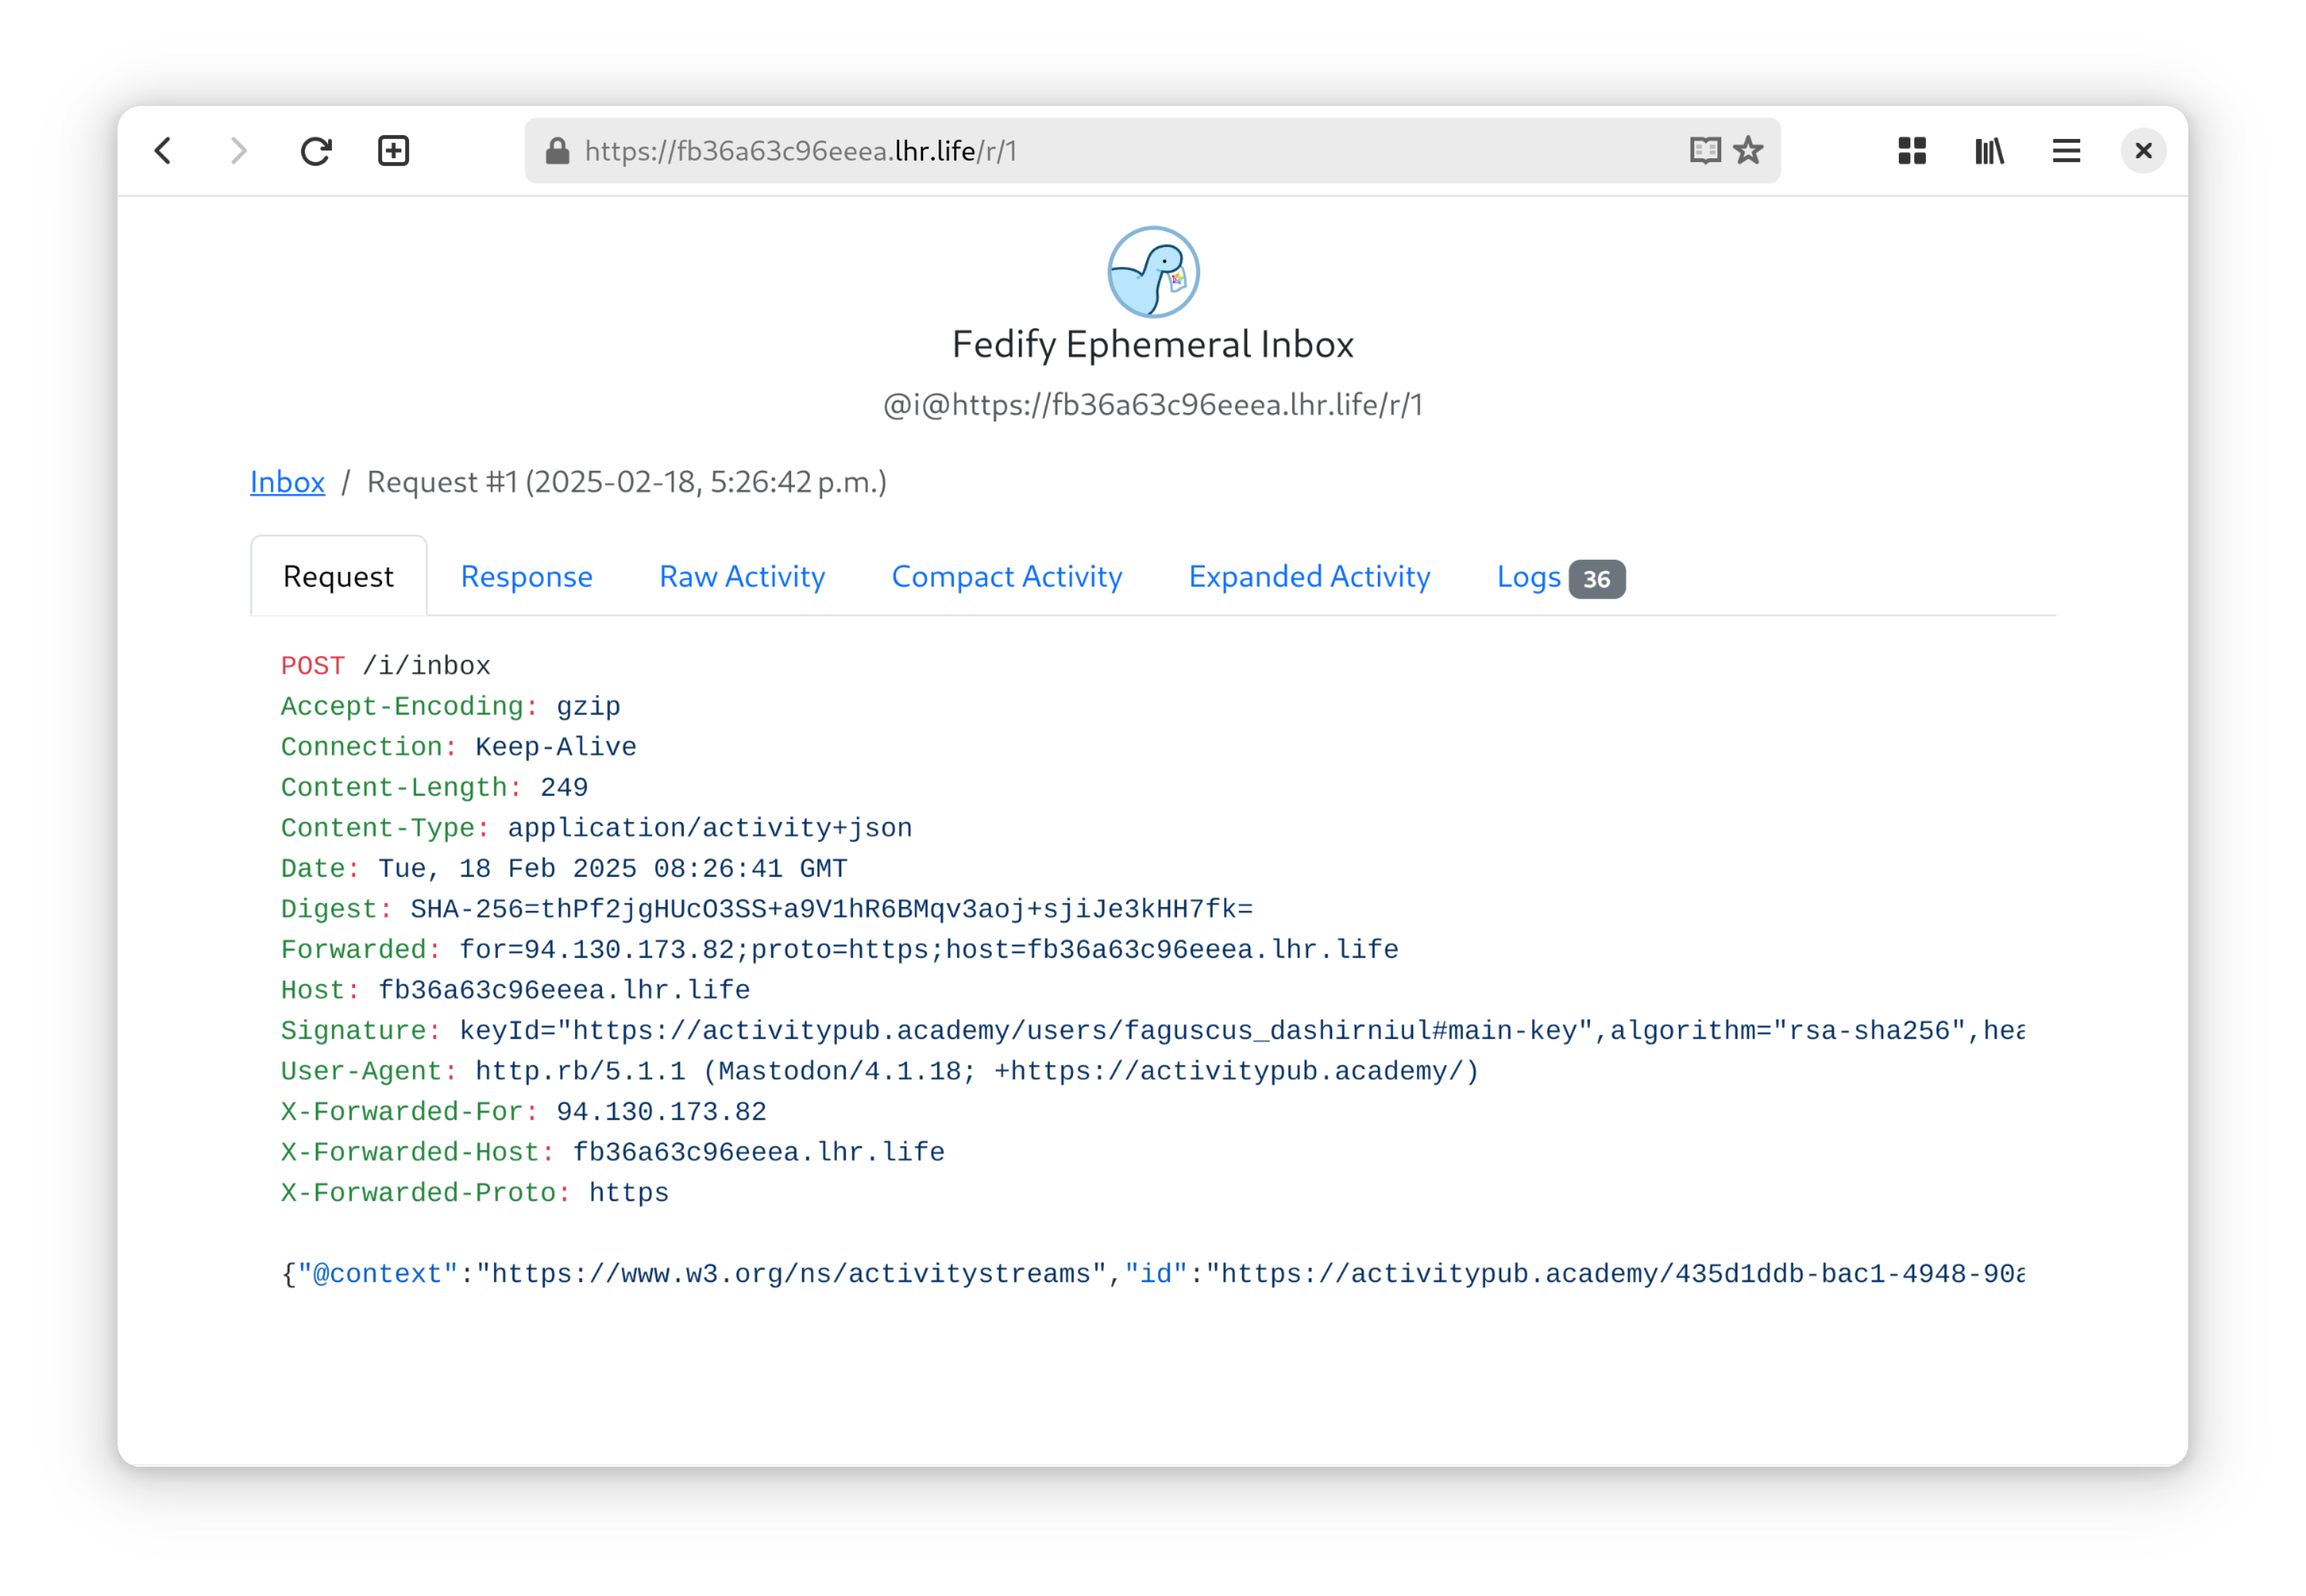
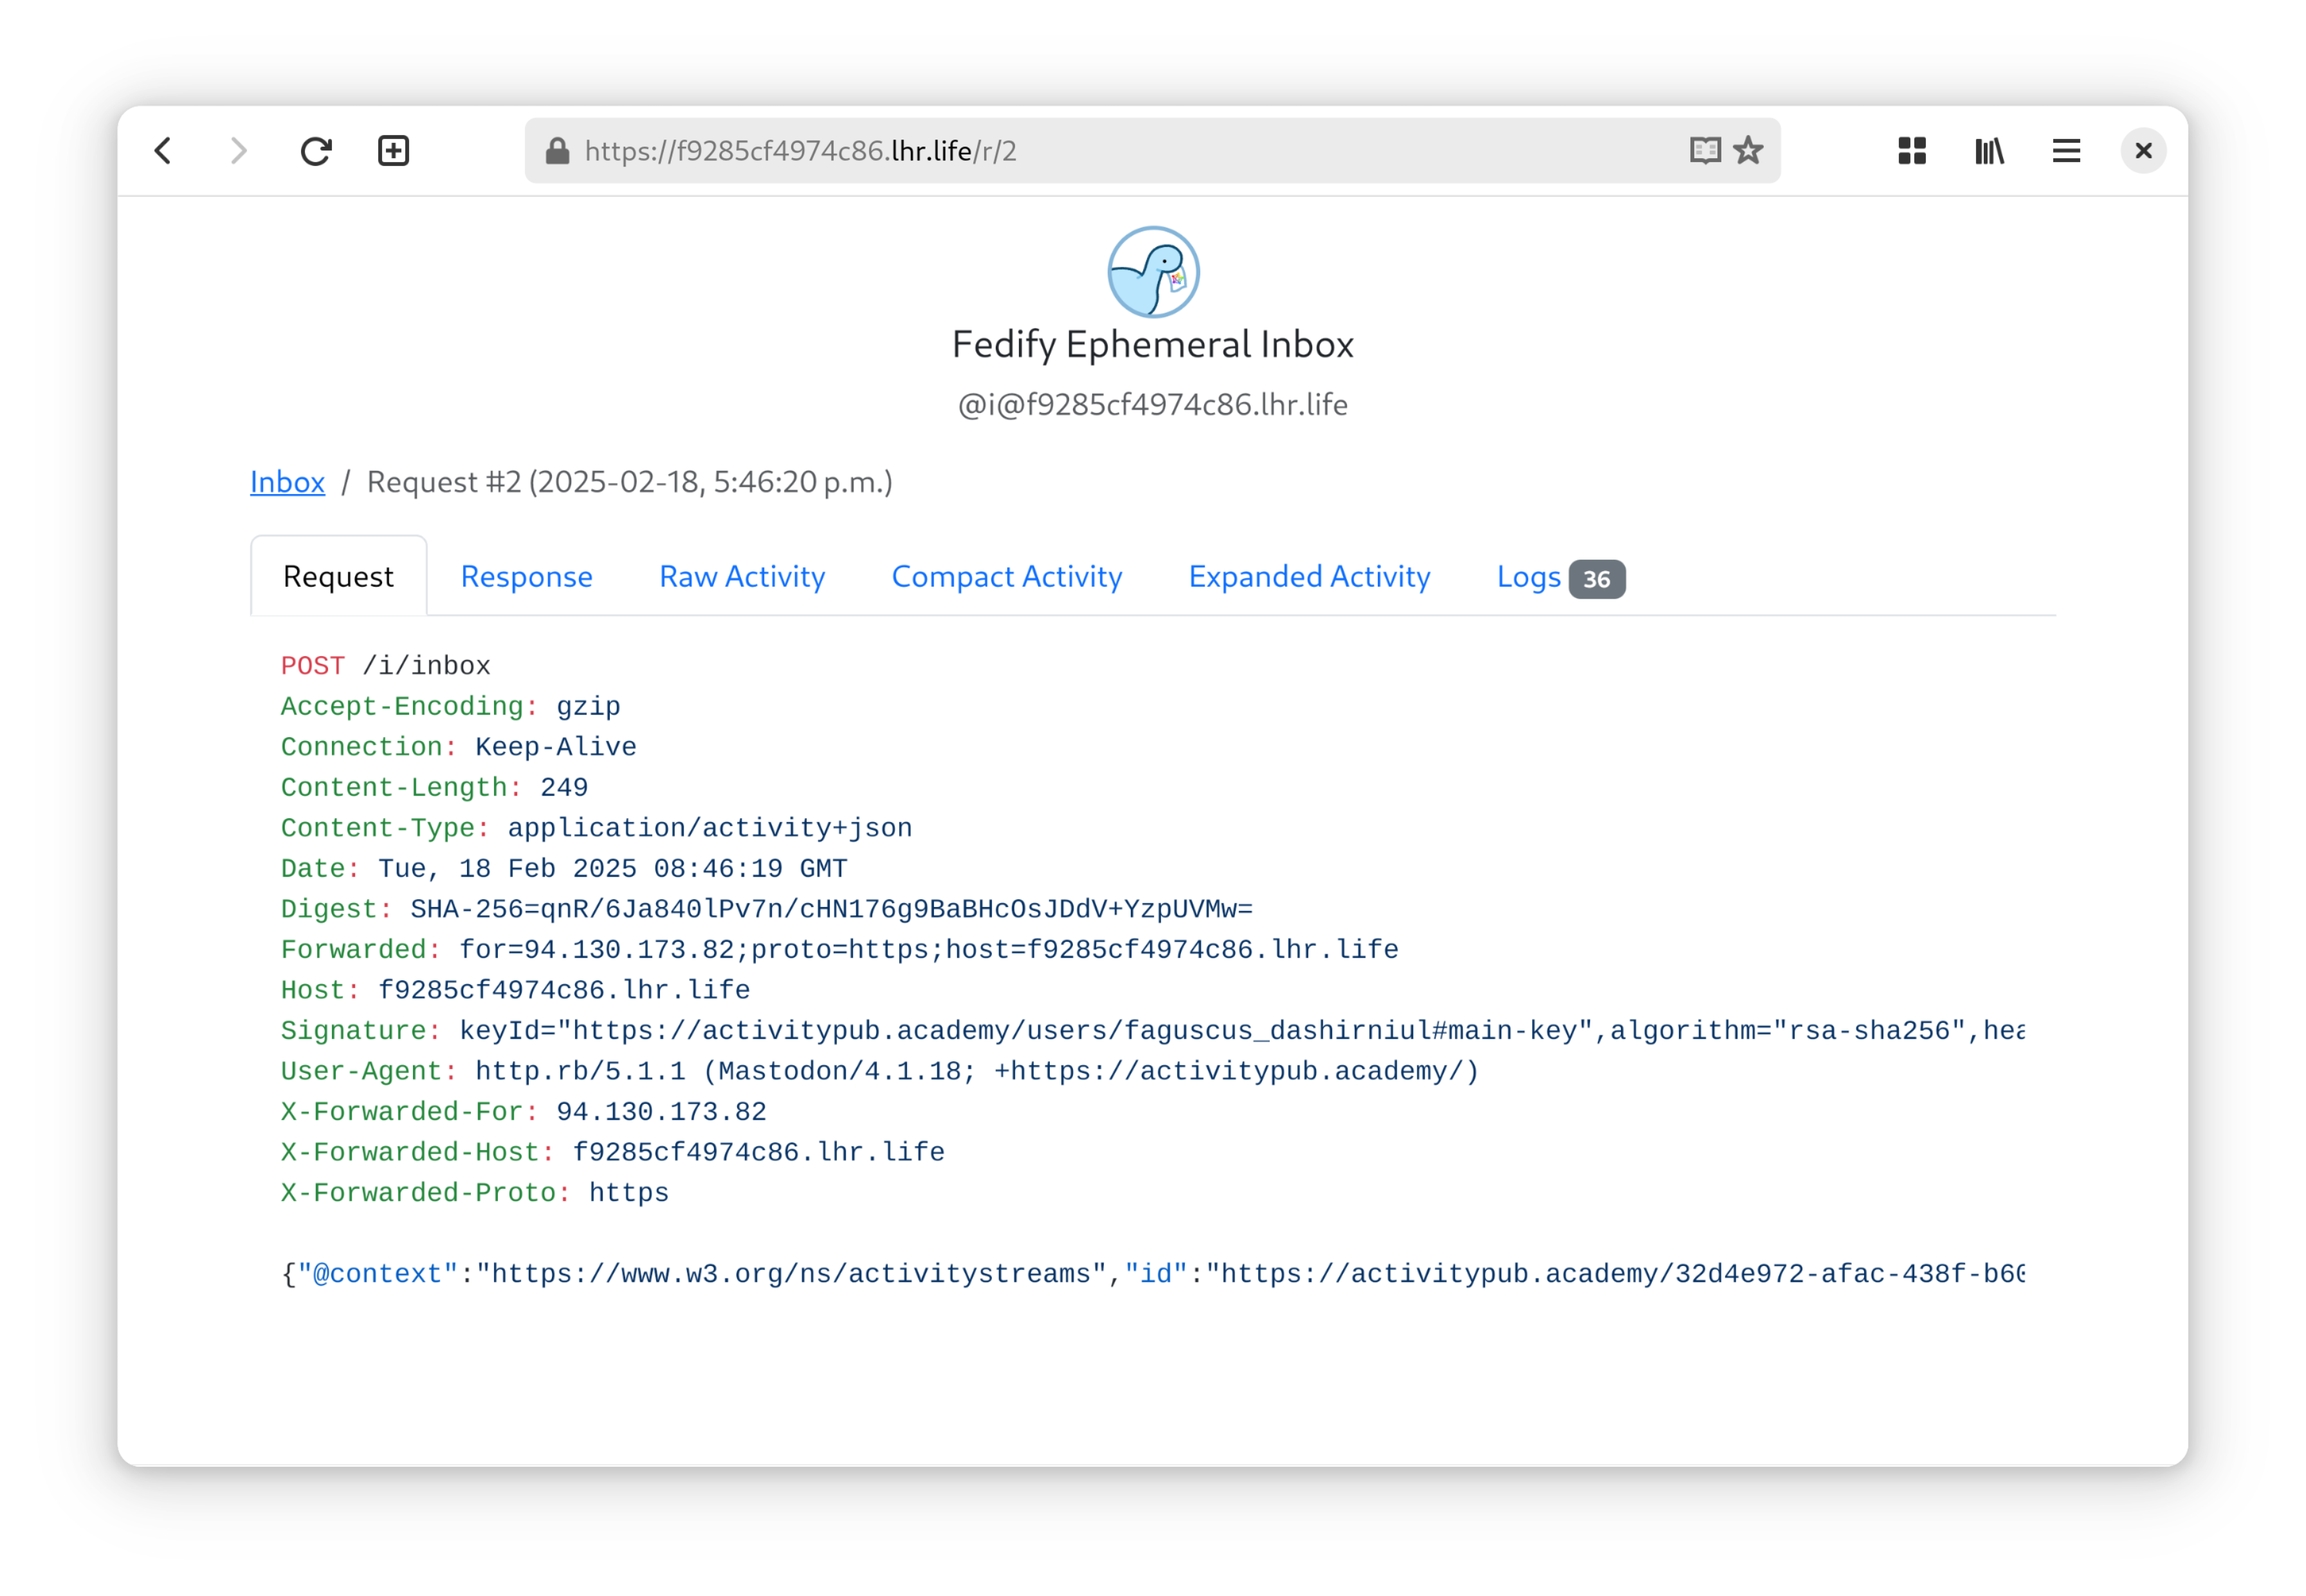
Update docs for `fedify inbox`
[ci skip]

diff --git a/docs/cli.md b/docs/cli.md
@@ -766,16 +766,16 @@ If it goes well, you will see the output like the below (without termination;
 press <kbd>^C</kbd> to stop the server):
 
 ~~~~
-✔ The ephemeral ActivityPub server is up and running: https://fb36a63c96eeea.lhr.life/
+✔ The ephemeral ActivityPub server is up and running: https://f9285cf4974c86.lhr.life/
 ✔ Sent follow request to @faguscus_dashirniul@activitypub.academy.
 ╭───────────────┬─────────────────────────────────────────╮
-│ Actor handle: │ i@fb36a63c96eeea.lhr.life               │
+│ Actor handle: │ i@f9285cf4974c86.lhr.life               │
 ├───────────────┼─────────────────────────────────────────┤
-│    Actor URI: │ https://fb36a63c96eeea.lhr.life/i       │
+│    Actor URI: │ https://f9285cf4974c86.lhr.life/i       │
 ├───────────────┼─────────────────────────────────────────┤
-│  Actor inbox: │ https://fb36a63c96eeea.lhr.life/i/inbox │
+│  Actor inbox: │ https://f9285cf4974c86.lhr.life/i/inbox │
 ├───────────────┼─────────────────────────────────────────┤
-│ Shared inbox: │ https://fb36a63c96eeea.lhr.life/inbox   │
+│ Shared inbox: │ https://f9285cf4974c86.lhr.life/inbox   │
 ╰───────────────┴─────────────────────────────────────────╯
 ~~~~
 
@@ -788,7 +788,7 @@ console:
 
 ~~~~
 ╭────────────────┬─────────────────────────────────────╮
-│     Request #: │ 1                                   │
+│     Request #: │ 2                                   │
 ├────────────────┼─────────────────────────────────────┤
 │ Activity type: │ Follow                              │
 ├────────────────┼─────────────────────────────────────┤
@@ -796,7 +796,7 @@ console:
 ├────────────────┼─────────────────────────────────────┤
 │ HTTP response: │ 202                                 │
 ├────────────────┼─────────────────────────────────────┤
-│        Details │ https://fb36a63c96eeea.lhr.life/r/1 │
+│        Details │ https://f9285cf4974c86.lhr.life/r/2 │
 ╰────────────────┴─────────────────────────────────────╯
 ~~~~
 
@@ -831,7 +831,7 @@ fedify inbox -f @john@doe.com -f @jane@doe.com
 > ├────────────────┼─────────────────────────────────────┤
 > │ HTTP response: │ 202                                 │
 > ├────────────────┼─────────────────────────────────────┤
-> │        Details │ https://fb36a63c96eeea.lhr.life/r/0 │
+> │        Details │ https://f9285cf4974c86.lhr.life/r/0 │
 > ╰────────────────┴─────────────────────────────────────╯
 > ~~~~
 
